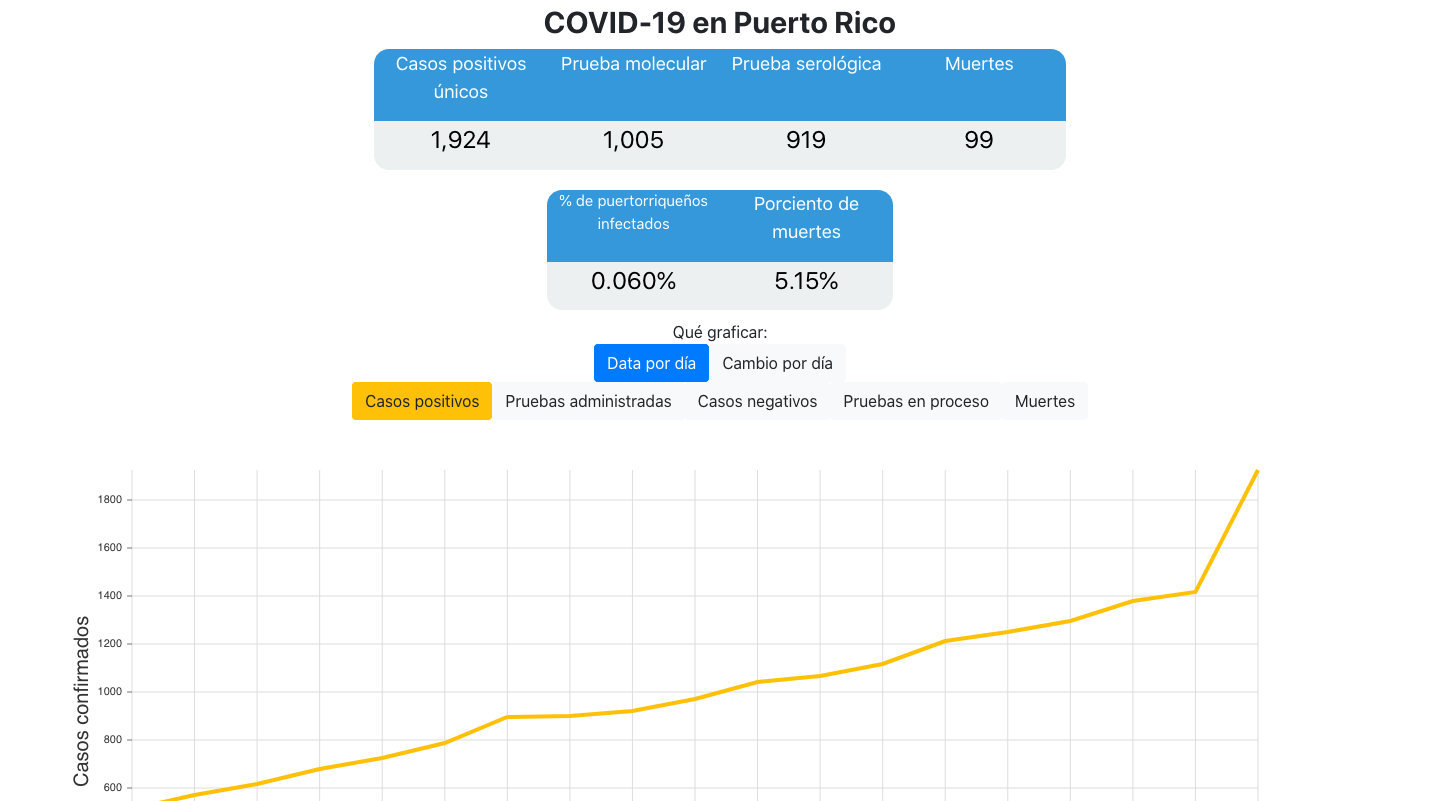
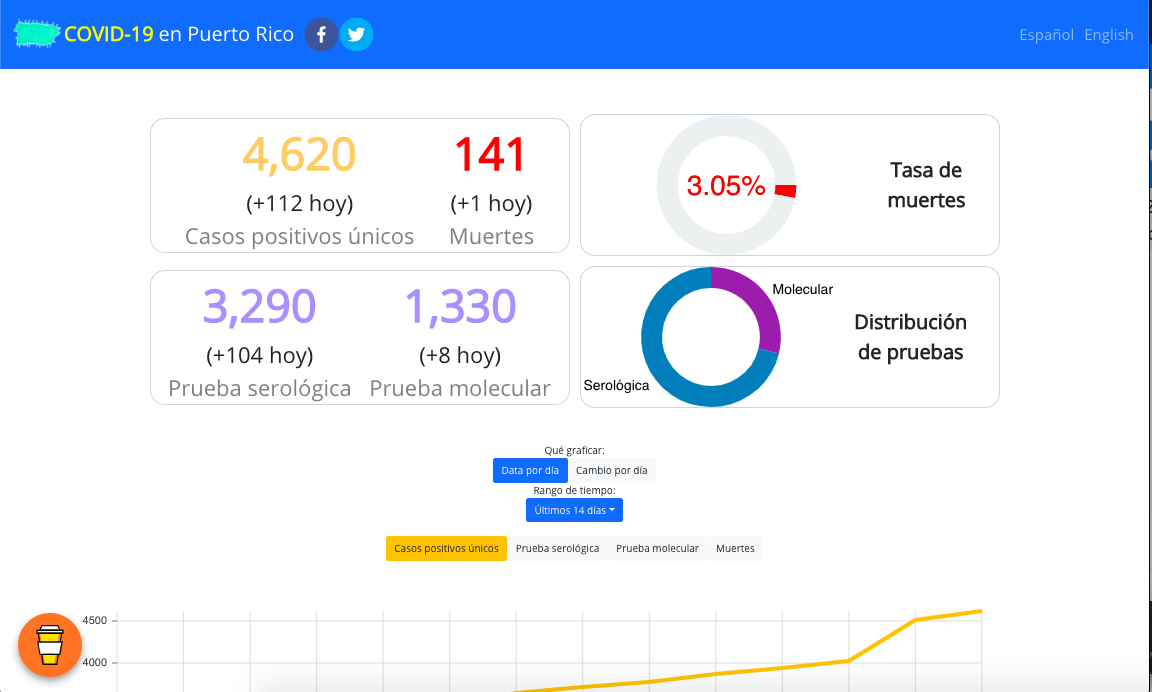
Added maintenance page

diff --git a/src/components/Maintenance/index.js b/src/components/Maintenance/index.js
@@ -1,0 +1,59 @@
+import React from 'react';
+import YoutubeBackground from 'react-youtube-background'
+import logo from '../../full_logo.png'; // Tell webpack this JS file uses this image
+
+
+
+export default function MaintenancePage(props) {
+
+    return (
+      <YoutubeBackground
+        videoId={"Dg49Dcw4MF8"}                /* default -> null */
+        aspectRatio={"16:9"}            /* default -> "16:9" */
+        overlay={null}                /* default -> null | e.g. "rgba(0,0,0,.4)" */
+        nocookie={false}                 /* default -> false | sets host to https:/*www.youtube-nocookie.com to avoid loading Google's cookies */
+        playerOptions={{loop:1,start:10}}          /* default -> {}  | https://developers.google.com/youtube/player_parameters*/
+        onReady={null}                  /* default -> null | returns event with player object */
+        onEnd={null}                    /* default -> null | returns event with player object */
+        onPlay={null}                   /* default -> null | returns event with player object */
+        onPause={null}                  /* default -> null | returns event with player object */
+        onError={null}                  /* default -> null | returns event with player object */
+        onStateChange={null}            /* default -> null | returns event with player object */
+        onPlaybackRateChange={null}     /* default -> null | returns event with player object */
+        onPlaybackQualityChange={null}  /* default -> null | returns event with player object */
+        className="videoContainer"
+      >
+        <div style={{display: 'flex',flexDirection: 'row',justifyContent: 'space-evenly'}}>
+          <div style={{top:"10%",borderRadius: 30,display: "flex",}}>
+            <img
+            height='100px'
+            src={logo} alt="Logo"  title="Logo COVID Tracker PR &copy; Lissette Rodríguez "/>
+          </div>
+        </div>
+        <div className="maintenanceMessageContainer">
+          <div style={{display: 'flex',flexDirection: 'column',alignItems: 'center',margin: 50,color:"white",backdropFilter:"blur(5px) grayscale(1) contrast(3)",background: 'rgba(0,0,0,.6)',padding: 30}}>
+            <text style={{fontSize: 30,fontWeight: 'bold'}}>
+              ¡Estaremos de vuelta esta tarde!
+            </text>
+            <text style={{fontSize: 15}}>
+              Hoy, 11 de junio de 2020, el Departmento de Salud de Puerto Rico cambió el tipo de data que hace pública acerca los
+              casos positivos de COVID-19 en la isla y estamos decidiendo como presentarla en contexto con la data ya existente.
+              ¡Gracias por su paciencia!
+            </text>
+          </div>
+          <div style={{display: 'flex',flexDirection: 'column',alignItems: 'center',margin: 50,color:"white",backdropFilter:"blur(5px) grayscale(1) contrast(3)",background: 'rgba(0,0,0,.6)',padding: 30}}>
+            <text style={{fontSize: 30,fontWeight: 'bold'}}>
+              We'll be back this afternoon!
+            </text>
+            <text style={{fontSize: 15}}>
+              Today, June 11th, 2020, the Puerto Rico Department of Health changed the type of data it releases surrounding
+              positive COVID-19 cases on the island. We are in the process of deciding how to best present it.
+              Thank you for your patience!
+            </text>
+          </div>
+
+        </div>
+
+      </YoutubeBackground>
+    )
+  }

diff --git a/src/index.css b/src/index.css
@@ -13,12 +13,48 @@
 
 }
 
+html{
+  width:100%;
+  height: 100%;
+}
 body {
   margin: 0;
   font-family: 'Open Sans', sans-serif;
   -webkit-font-smoothing: antialiased;
   -moz-osx-font-smoothing: grayscale;
+  width:100%;
+  height: 100%;
+
 }
+#root{
+  width:100%;
+  height: 100%;
+}
+
+.appContainer{
+  width:100%;
+  height: 100%;
+}
+
+.videoContainer{
+  display: flex;
+  flex-direction: row;
+  align-items: center;
+  height: 100%;
+  width: 100%;
+  position: relative;
+
+
+}
+
+.maintenanceMessageContainer{
+  display: flex;
+  flex-direction: row;
+  align-items:  center;
+  height: 100%;
+  width: 100%
+}
+
 
 code {
   font-family: source-code-pro, Menlo, Monaco, Consolas, 'Courier New',
@@ -135,6 +171,14 @@ code {
     --BLOCK_WIDTH:100%;
     --DATA_FONT_SIZE:3.2vh;
     --LABEL_FONT_SIZE:2.1vh;
+  }
+  .videoContainer{
+    flex-direction: column;
+    overflow: scroll;
+  }
+
+  .maintenanceMessageContainer{
+    flex-direction: column;
   }
 
   .statsRow{

diff --git a/src/components/Home/index.js b/src/components/Home/index.js
@@ -203,7 +203,10 @@ function getFigureWithTodaysCount(color,label,figure,saludTimeSignature,newToday
               <text style={{color: 'grey'}}>{label}</text>
             </div>)
   } else{
-    return number
+    return (<div style={{display:'flex',flexDirection:'column'}}>
+              <text style={{fontSize: 45,fontWeight: 'bold',color:color}}>{number}</text>
+              <text style={{color: 'grey'}}>{label}</text>
+            </div>)
   }
 }
 
@@ -491,7 +494,7 @@ export default function Home(props) {
                 ...buttonVariants,
                 alertVisible:cookie.ui ? cookie.ui.alertVisible : true,
                 locale:'es-pr',
-                graphLastXdays:30,
+                graphLastXdays:14,
               })
     const [historicalData,setHistoricalData] = useState({
       all:[],

diff --git a/src/components/App/index.js b/src/components/App/index.js
@@ -1,12 +1,14 @@
 import React from 'react';
 import { FirebaseContext } from '../Firebase';
 
-import HomePage from '../Home';
+//import HomePage from '../Home';
+import MaintenancePage from '../Maintenance';
+
 
 const App = () => (
-    <div>
+    <div className="appContainer">
       <FirebaseContext.Consumer>
-        {firebase => <HomePage firebase={firebase} />}
+        {firebase => <MaintenancePage firebase={firebase} />}
       </FirebaseContext.Consumer>
     </div>
 );
